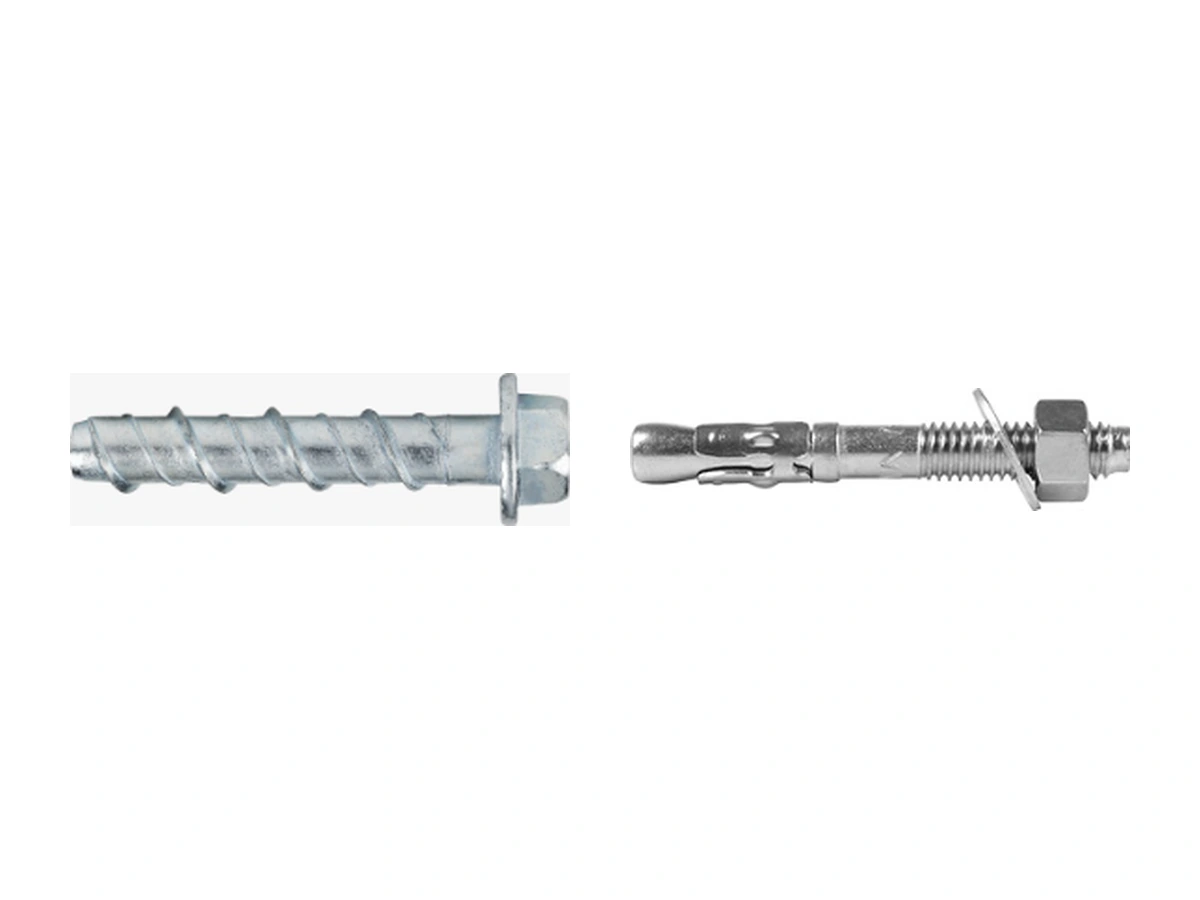
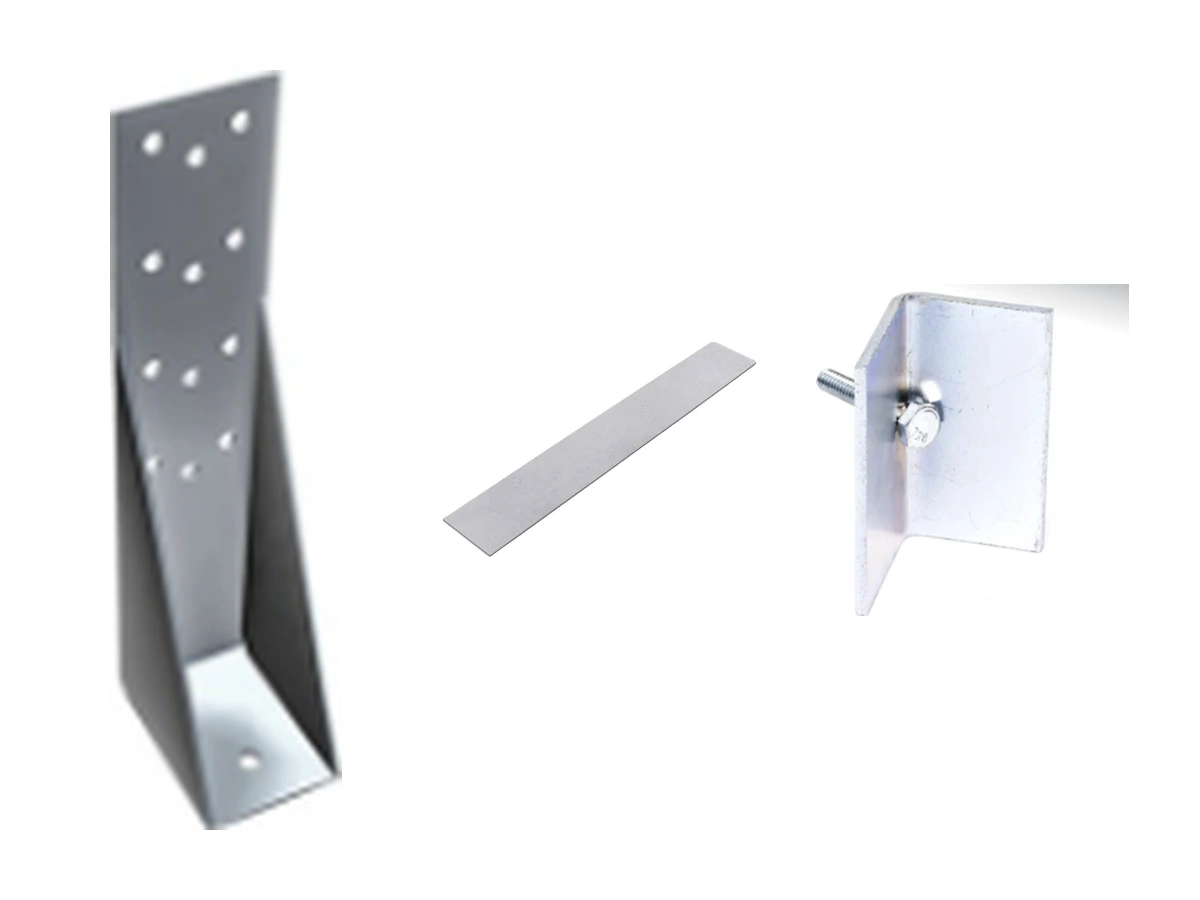
fix: add customer closure components and steel frame accessories

Changed region(s): [[0.0617, 0.0622, 0.9558, 0.9333]]

diff --git a/lib/steel-frame-details.ts b/lib/steel-frame-details.ts
@@ -17,6 +17,20 @@ const fixings = [
   { name: "Chumbador parabolt", image: image("produto-steel-parabolt", "Chumbador parabolt com porca e arruela na foto do cliente"), measures: ["Diversos tamanhos"], use: "Ancoragem mecânica conforme base, carga e dimensionamento." },
 ];
 
+const closing = [
+  { name: "Membrana hidrófuga", image: image("produto-steel-membrana", "Rolo de membrana hidrófuga com rótulo original preservado"), measures: ["Tamanhos e medidas sob consulta"], use: "Composição da proteção do fechamento, conforme o sistema especificado." },
+  { name: "Tela de reforço para base coat", image: image("produto-steel-tela-base-coat", "Rolo branco de tela de reforço e detalhe da trama enviados pela loja"), measures: ["1 × 50 m"], use: "Reforço da camada de base coat conforme orientação do sistema." },
+  { name: "Base coat", image: image("produto-steel-base-coat", "Saco original Placo Fachada Rápida basecoat de 20 kg"), measures: ["20 kg"], use: "Camada de base para sistemas de fachada compatíveis com o produto." },
+  { name: "Fita telada para placa cimentícia", image: image("produto-steel-fita-cimenticia", "Rolo cinza de fita telada para placa cimentícia enviado pela loja"), measures: ["Medidas sob consulta"], use: "Reforço do tratamento de juntas conforme especificação do sistema." },
+  { name: "Cantoneira PVC com tela", image: image("produto-steel-cantoneira-pvc", "Cantoneira branca de PVC com tela na fotografia original"), measures: ["2,50 m"], use: "Reforço e acabamento de cantos nos sistemas compatíveis." },
+  { name: "Pingadeira PVC com tela", image: image("produto-steel-pingadeira-pvc", "Detalhe original da pingadeira de PVC com tela de reforço"), measures: ["2,50 m"], use: "Acabamento com pingadeira nas posições previstas pelo projeto." },
+];
+const accessories = [
+  { name: "Ancorador", image: image("produto-steel-ancorador", "Ancorador metálico perfurado na fotografia enviada pelo cliente"), measures: ["Tamanhos e medidas sob consulta"], use: "Ligação e ancoragem da estrutura conforme dimensionamento do projeto." },
+  { name: "Cinta de contraventamento", image: image("produto-steel-cinta", "Cinta metálica de contraventamento no ângulo original da fotografia"), measures: ["Tamanhos e medidas sob consulta"], use: "Composição do contraventamento conforme projeto estrutural." },
+  { name: "Tensionador de fita de contraventamento", image: image("produto-steel-tensionador", "Tensionador metálico com parafuso na fotografia enviada pela loja"), measures: ["Disponibilidade sob consulta"], use: "Ajuste da fita de contraventamento conforme o sistema especificado." },
+];
+
 export const steelFrameDetails: Record<string, CatalogEntry> = {
   "perfis-estruturais": {
     description: "Perfis metálicos para estruturas de Steel Frame, na fotografia fornecida pela loja.",
@@ -38,15 +52,15 @@ export const steelFrameDetails: Record<string, CatalogEntry> = {
     applications: ["Fixação de placas", "União de perfis", "Ancoragem mecânica"], variants: fixings, availabilityNote,
   },
   "componentes-para-fechamento": {
-    description: "Materiais para composição de fechamentos em Steel Frame, escolhidos conforme o projeto.",
-    gallery: [image("produto-steel-frame-fechamento", "Placas Glasroc X, cimentícias e OSB das fotografias da loja")],
-    options: ["Placas Glasroc X", "Placas cimentícias", "Painéis OSB"],
-    applications: ["Fechamentos", "Revestimentos", "Sistemas de Steel Frame"], variants: boards, availabilityNote,
+    description: "Membrana, telas, base coat e arremates para composição dos fechamentos em Steel Frame.",
+    gallery: [image("produto-steel-frame-fechamento", "Composição das fotos originais de membrana, telas, base coat, cantoneira e pingadeira")],
+    options: ["Membrana hidrófuga e tela de reforço", "Base coat de 20 kg e fita para cimentícia", "Cantoneira e pingadeira de PVC com tela"],
+    applications: ["Proteção dos fechamentos", "Reforço de juntas e superfícies", "Arremates de cantos e bordas"], variants: closing, availabilityNote,
   },
   acessorios: {
-    description: "Ancoragens mecânicas para sistemas de Steel Frame, conforme os modelos enviados pela loja.",
-    gallery: [image("produto-steel-frame-acessorios", "Fotografias originais de parafuso para concreto e chumbador parabolt")],
-    options: ["Parafuso para concreto", "Chumbador parabolt", "Tamanhos e compatibilidade sob consulta"],
-    applications: ["Ancoragem mecânica", "Fixação em concreto", "Sistemas conforme dimensionamento"], variants: fixings.slice(-2), availabilityNote,
+    description: "Ancorador, cinta e tensionador de contraventamento para sistemas de Steel Frame.",
+    gallery: [image("produto-steel-frame-acessorios", "Fotos originais de ancorador, cinta e tensionador de contraventamento reunidas")],
+    options: ["Ancorador", "Cinta de contraventamento", "Tensionador de fita de contraventamento"],
+    applications: ["Ancoragem da estrutura", "Contraventamento", "Ajuste da fita conforme projeto"], variants: accessories, availabilityNote,
   },
 };

diff --git a/tests/site-data.test.ts b/tests/site-data.test.ts
@@ -20,6 +20,23 @@ test("steel frame shows the customer boards, fasteners and supplied measurements
   assert.equal(getProductDetail(category, "produto-inexistente"), undefined);
 });
 
+test("steel frame closure components and accessories use the new client batch", () => {
+  const category = categories.find(item => item.slug === "steel-frame");
+  assert.ok(category);
+  const closing = getProductDetail(category, "componentes-para-fechamento");
+  const accessories = getProductDetail(category, "acessorios");
+  assert.equal(closing?.variants.length, 6);
+  assert.deepEqual(closing?.variants[1].measures, ["1 × 50 m"]);
+  assert.deepEqual(closing?.variants[2].measures, ["20 kg"]);
+  assert.deepEqual(closing?.variants.slice(-2).map(item => item.measures), [["2,50 m"], ["2,50 m"]]);
+  assert.deepEqual(accessories?.variants.map(item => item.name), ["Ancorador", "Cinta de contraventamento", "Tensionador de fita de contraventamento"]);
+  const sources = JSON.parse(readFileSync(join(process.cwd(), "docs/product-photo-sources.json"), "utf8")) as Record<string, { kind: string }>;
+  for (const variant of [...(closing?.variants ?? []), ...(accessories?.variants ?? [])]) {
+    assert.equal(sources[variant.image.src.split("/").pop()!]?.kind, "client-original");
+    assert.ok(existsSync(join(process.cwd(), "public", variant.image.src)));
+  }
+});
+
 test("restored catalog photography has traceable non-generative sources", () => {
   const sources = JSON.parse(readFileSync(join(process.cwd(), "docs/product-photo-sources.json"), "utf8")) as Record<string, { kind: string }>;
   assert.ok(Object.keys(sources).length >= 30);

diff --git a/scripts/prepare-steel-client-photos.py b/scripts/prepare-steel-client-photos.py
@@ -17,6 +17,15 @@ PHOTOS = {
     "produto-steel-parafuso-osb.webp": ("4d54e7ce-caee-410a-9166-6b4b7e5924e5", (14, 7, 335, 292)),
     "produto-steel-ancoragem-concreto.webp": ("823e0d4c-48cc-426a-ba11-18eb2ce2467a", (20, 3, 340, 322)),
     "produto-steel-parabolt.webp": ("d6196557-b3ee-493d-9605-04ee2ea4162e", (16, 11, 336, 332)),
+    "produto-steel-membrana.webp": ("c4014fd2-fc8e-4d22-b300-456d15886e10", (29, 203, 350, 524)),
+    "produto-steel-tela-base-coat.webp": ("5000e666-61ea-4ab8-b727-0e849a1ba58e", (15, 10, 336, 321)),
+    "produto-steel-base-coat.webp": ("b622310d-cb26-41ee-bc92-9d91bea7221f", (17, 7, 337, 326)),
+    "produto-steel-fita-cimenticia.webp": ("95b7577f-3c97-470f-bd89-5f058ecd020e", (12, 4, 332, 326)),
+    "produto-steel-cantoneira-pvc.webp": ("12c11aea-f195-4403-b019-b8a4b81be8e9", (18, 3, 336, 179)),
+    "produto-steel-pingadeira-pvc.webp": ("12c11aea-f195-4403-b019-b8a4b81be8e9", (18, 245, 336, 565)),
+    "produto-steel-ancorador.webp": ("c81a7b8f-b000-400d-a218-a66a9d4aa76a", (21, 255, 342, 575)),
+    "produto-steel-cinta.webp": ("7e5ec9cc-dcba-4768-924e-f4ce2f6b8d83", (18, 11, 339, 330)),
+    "produto-steel-tensionador.webp": ("38e0a829-1767-4d3d-b205-ed827cd85eec", (16, 1, 320, 243)),
 }
 
 def contain(photo, size):
@@ -58,11 +67,13 @@ for name, (identifier, crop) in PHOTOS.items():
 
 boards = ["produto-steel-glasroc-x.webp", "produto-steel-placa-cimenticia.webp", "produto-steel-osb.webp"]
 fixings = [name for name in PHOTOS if "parafuso-" in name or "ancoragem-" in name or "parabolt" in name]
+closing = ["produto-steel-membrana.webp", "produto-steel-tela-base-coat.webp", "produto-steel-base-coat.webp", "produto-steel-fita-cimenticia.webp", "produto-steel-cantoneira-pvc.webp", "produto-steel-pingadeira-pvc.webp"]
+steel_accessories = ["produto-steel-ancorador.webp", "produto-steel-cinta.webp", "produto-steel-tensionador.webp"]
 for name, items, columns in [
     ("produto-steel-frame-placas.webp", boards, 3),
     ("produto-steel-frame-fixadores.webp", fixings, 3),
-    ("produto-steel-frame-fechamento.webp", boards, 3),
-    ("produto-steel-frame-acessorios.webp", fixings[-2:], 2),
+    ("produto-steel-frame-fechamento.webp", closing, 3),
+    ("produto-steel-frame-acessorios.webp", steel_accessories, 3),
 ]:
     compose(items, name, columns)
     manifest[name] = {"kind":"client-original", "compositionOf":items, "processing":"Original crops on white; proportional resize; no rotation or generative editing"}
